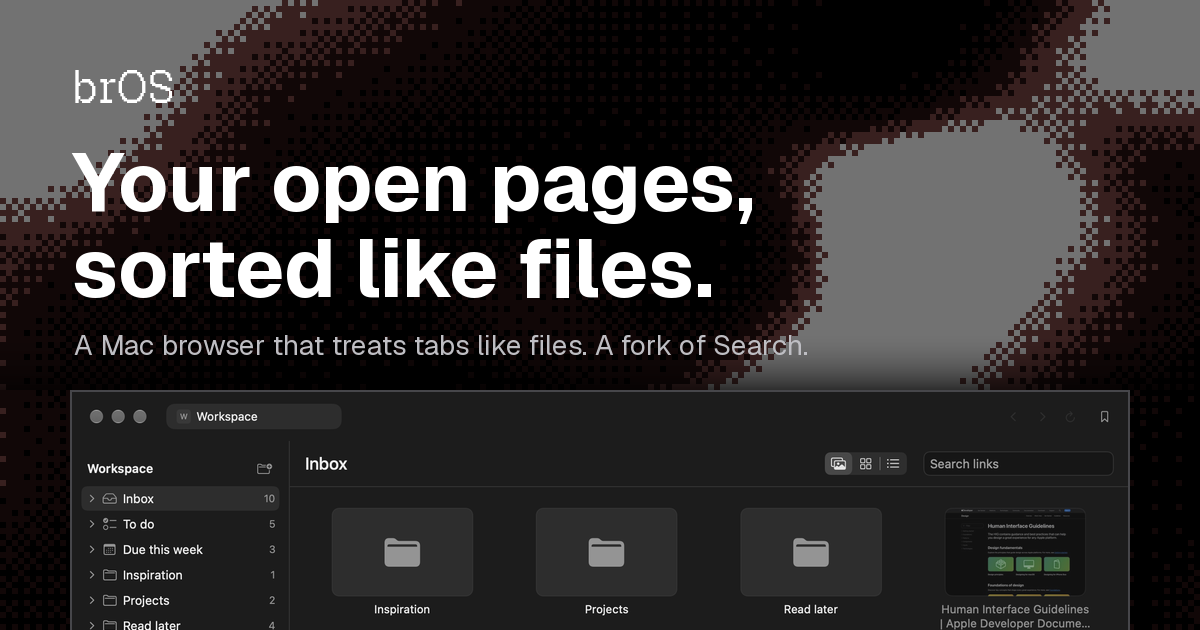
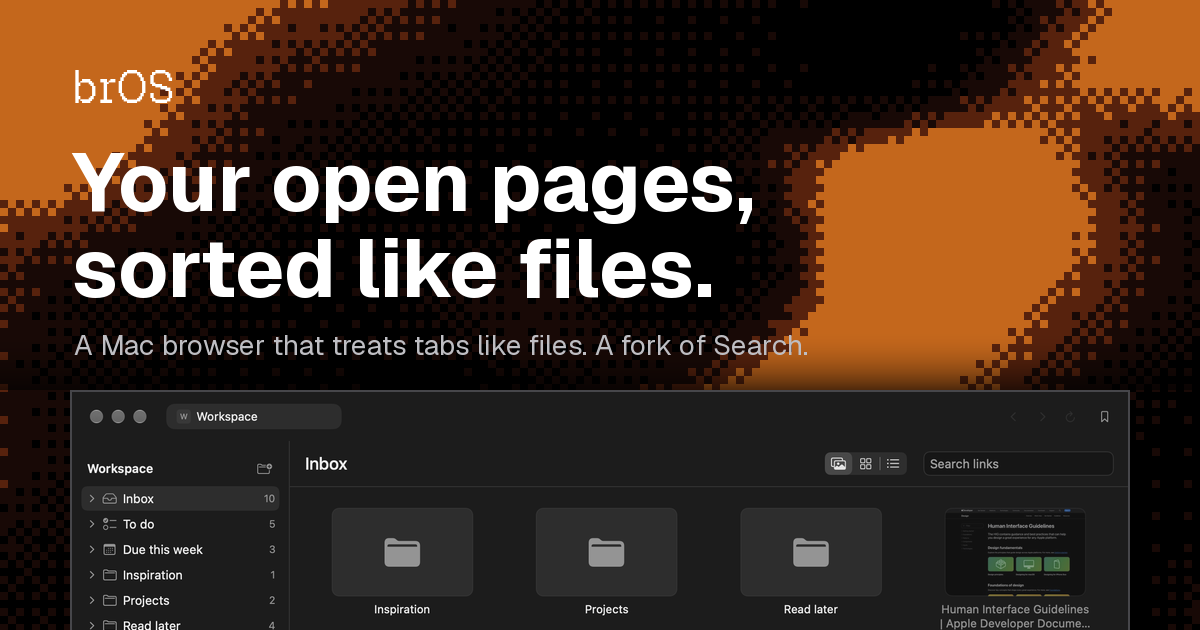
Orange pixel background and orange accents

diff --git a/style.css b/style.css
@@ -13,7 +13,7 @@
   --text: #ededed;
   --muted: #a1a1a6;
   --dim: #6e6e73;
-  --accent: #d4d4d8;
+  --accent: #ff7a1a;
   --font: "Geist", -apple-system, BlinkMacSystemFont, "SF Pro Text", "Helvetica Neue", system-ui, sans-serif;
   --mono: "Geist Mono", ui-monospace, "SF Mono", Menlo, monospace;
   --pixel: "Geist Pixel", "Geist Mono", ui-monospace, monospace;
@@ -26,6 +26,7 @@ body {
   font: 16px/1.6 var(--font); -webkit-font-smoothing: antialiased;
 }
 a { color: inherit; }
+::selection { background: #ff7a1a; color: #000; }
 img { max-width: 100%; display: block; }
 
 /* Lingua: mostra solo quella attiva */
@@ -78,7 +79,7 @@ html[data-lang="it"] [lang="en"], html[data-lang="en"] [lang="it"] { display: no
   border: 1px solid var(--line-2); background: rgba(10,10,10,.7);
   transition: color .15s, border-color .15s;
 }
-.pill:hover { color: var(--text); border-color: #444; }
+.pill:hover { color: var(--text); border-color: var(--accent); }
 .pill i { font-style: normal; color: var(--dim); }
 h1 {
   margin: 28px 0 0; font-weight: 650; letter-spacing: -.045em; line-height: 1.02;
@@ -104,7 +105,7 @@ h1 {
 /* Finestra / screenshot */
 .shot { margin: 0; }
 .win { border: 1px solid var(--line-2); border-radius: 12px; background: var(--panel); overflow: hidden; position: relative;
-  box-shadow: 0 0 0 1px rgba(255,255,255,.02), 0 30px 80px -20px rgba(0,0,0,.9), 0 0 100px -30px rgba(255,70,60,.22); }
+  box-shadow: 0 0 0 1px rgba(255,255,255,.02), 0 30px 80px -20px rgba(0,0,0,.9), 0 0 100px -30px rgba(255,122,26,.22); }
 .win-bar { height: 34px; display: flex; align-items: center; gap: 7px; padding: 0 14px; border-bottom: 1px solid var(--line); background: #0d0d0e; }
 .win-bar i { width: 10px; height: 10px; border-radius: 50%; background: #2a2a2e; }
 .win-body { position: relative; aspect-ratio: 16 / 10; background: #0b0b0c; overflow: hidden; }
@@ -297,4 +298,4 @@ h1 em { font-style: normal; }
 .icw { position: relative; display: block; width: 28px; height: 28px; color: var(--text); transition: color .2s; }
 .ic { display: block; width: 28px; height: 28px; fill: none; stroke: currentColor; stroke-width: 1.5; stroke-linecap: round; stroke-linejoin: round; }
 .icw canvas { position: absolute; inset: 0; width: 100%; height: 100%; image-rendering: pixelated; pointer-events: none; }
-.fc:hover .icw { color: #ff6b5e; }
+.fc:hover .icw { color: #ff7a1a; }

diff --git a/main.js b/main.js
@@ -82,10 +82,10 @@
       " v+=exp(-d*3.2)*.38;",
       " v=pow(clamp(v,0.,1.),3.4)*1.7;",
       " float s=v*3.;",
-      " float l=(floor(s)+step(b4(gl_FragCoord.xy),fract(s)))/3.;",
-      " vec3 hot=mix(vec3(.92,.13,.09),vec3(.86),smoothstep(.45,1.,l));",
-      " vec3 c=hot*l*l+vec3(.10)*l;",
-      " gl_FragColor=vec4(c*.5,1.);",
+      " float l=min((floor(s)+step(b4(gl_FragCoord.xy),fract(s)))/3.,1.);",
+      " vec3 hot=mix(vec3(.92,.16,.0),vec3(1.,.48,.06),smoothstep(.35,1.,l));",
+      " vec3 c=hot*l*l+vec3(.05)*l;",
+      " gl_FragColor=vec4(c*1.0,1.);",
       "}"
     ].join("\n");
 
@@ -104,7 +104,7 @@
     gl.vertexAttribPointer(loc, 2, gl.FLOAT, false, 0, 0);
     var uR = gl.getUniformLocation(pr, "r"), uT = gl.getUniformLocation(pr, "t"), uM = gl.getUniformLocation(pr, "m");
 
-    var CELL = window.innerWidth < 700 ? 4 : 5; // dimensione del "pixel" in px CSS
+    var CELL = window.innerWidth < 700 ? 5 : 8; // dimensione del "pixel" in px CSS
     var mx = 0.25, my = 0.15, tx = mx, ty = my; // puntatore, in unità di altezza
     function size() {
       var w = Math.max(1, Math.ceil(cv.clientWidth / CELL)), h = Math.max(1, Math.ceil(cv.clientHeight / CELL));
@@ -187,7 +187,7 @@
 
   /* ---------- Icone: in hover si pixelano per un attimo (griglia che si affina, poi il tratto pulito) ---------- */
   (function iconHover() {
-    var COLOR = "#ff6b5e", STEPS = [4, 5, 6, 8, 10, 13, 17, 24], FRAME = 90; // circa 0,7 s in tutto
+    var COLOR = "#ff7a1a", STEPS = [4, 5, 6, 8, 10, 13, 17, 24], FRAME = 90; // circa 0,7 s in tutto
     document.querySelectorAll(".fc .ic").forEach(function (svg) {
       var host = svg.closest(".fc"), wrap = document.createElement("span");
       wrap.className = "icw"; svg.parentNode.insertBefore(wrap, svg); wrap.appendChild(svg);
